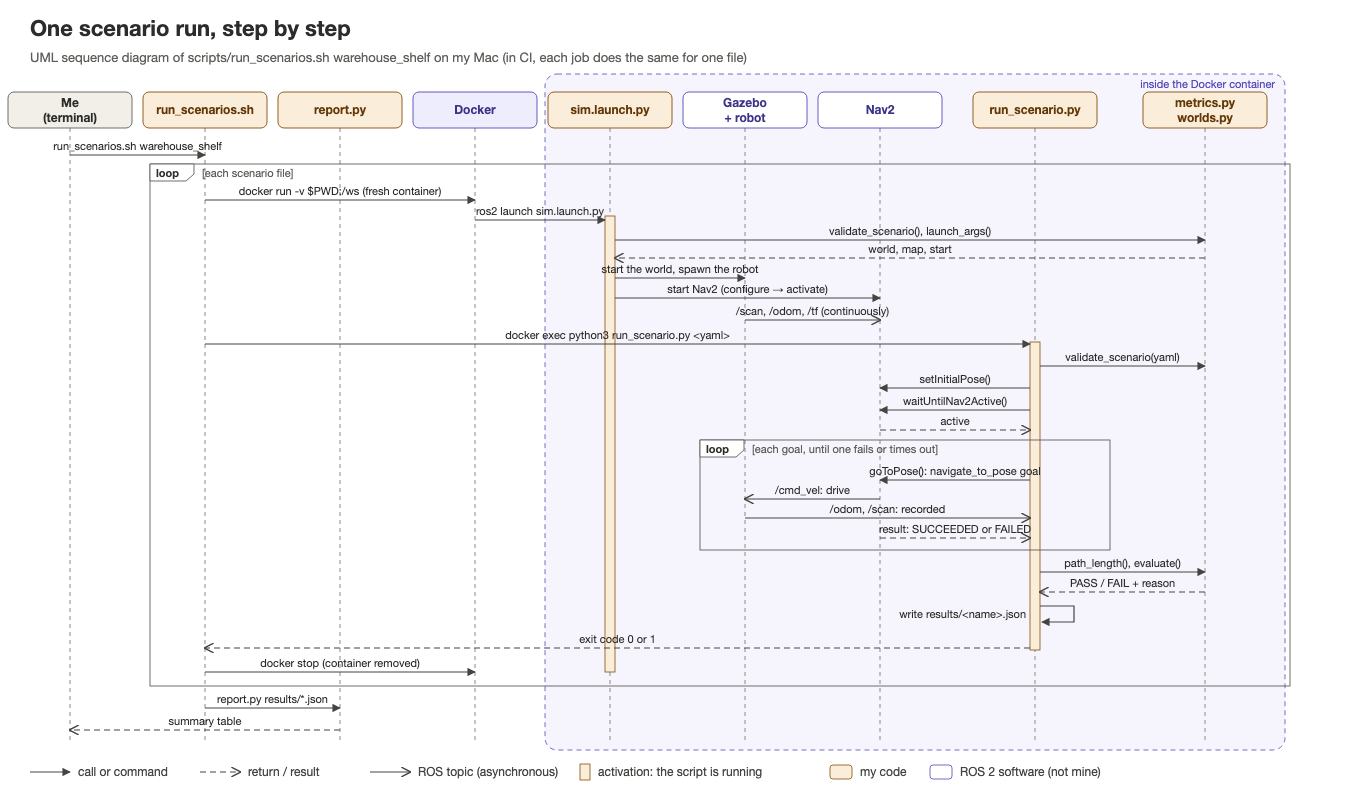
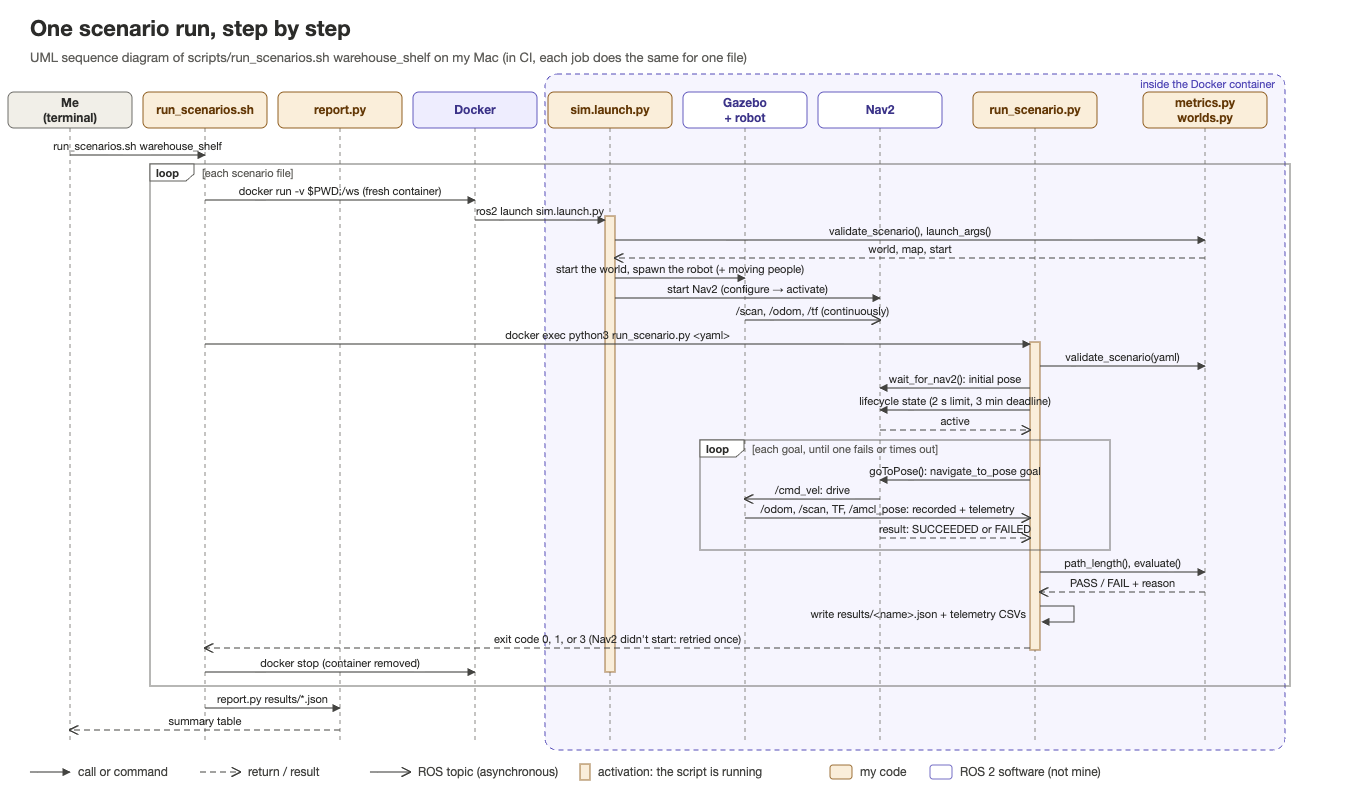
Bring the README intro and diagrams up to date

diff --git a/README.md b/README.md
@@ -7,16 +7,17 @@ I'm building an autonomous warehouse robot with **ROS 2 Jazzy + Nav2**, simulate
 > Work in progress.
 
 ## What I'm building
-- Differential-drive robot navigating a warehouse with Nav2.
-- Mission logic as a behavior tree: go to a shelf, wait, return, recover if blocked.
-- Scenario suite (moving obstacles, narrow aisles, people crossing) run headless in Docker, reporting success rate, time to goal and minimum obstacle distance.
-- CI with GitHub Actions running the scenarios on every change.
+- A differential-drive robot (TurtleBot3 Waffle) navigating with Nav2 in three worlds: Nav2's sandbox, my own [warehouse](#my-warehouse), and [my home](#my-home-scanned-with-my-iphone), mapped with my iPhone's LiDAR and turned into a Nav2 map and a Gazebo world by my own scripts.
+- A scenario suite (narrow aisles, people walking through the warehouse, a tour of my home) run headless in Docker, judged on goals reached, simulated time, distance to obstacles and contact with people.
+- A patrol [mission as a behaviour tree](#a-patrol-mission-as-a-behaviour-tree) (py_trees): visit places, retry, skip what can't be reached, always go home.
+- [Telemetry](#telemetry): a time series of every run (localisation error and uncertainty, speed, clearance, recoveries), the raw material for the fleet data work in the roadmap below.
+- CI on GitHub Actions: unit tests, every scenario and mission in parallel on each pull request, and infrastructure failures kept apart from navigation failures.
 
 ## Roadmap: robot fleet data
 Next, I'm turning the simulation into a small robot fleet and working with its data: finding recurring failures and early warning signs in the telemetry, building dashboards and alerts that can be trusted, detecting config drift, and packaging the evidence for engineering. Each part gets its own pull request:
 
 1. **Simulated fleet**: several robots or runs, each with its own ID, on the existing scenarios, so there is fleet data and not just one robot's.
-2. **Telemetry**: time series per robot and mission in a file (CSV or Parquet): mission state, speed, minimum distance to obstacles, localisation quality (AMCL covariance and error against Gazebo's true pose), replans, recoveries and the time of each leg.
+2. ✅ **Telemetry** ([done](#telemetry)): time series per robot and mission in a file (CSV or Parquet): mission state, speed, minimum distance to obstacles, localisation quality (AMCL covariance and error against Gazebo's true pose), replans, recoveries and the time of each leg.
 3. **Injected faults**: realistic failures on some robots: a sensor that publishes slower or drops out, odometry drift, a changed Nav2 parameter (e.g. the inflation), or a "battery" or "motor" that degrades over time.
 4. **Health checks and `/diagnostics`**: a node that checks each sensor publishes at its expected rate and reports OK, WARN or ERROR on `/diagnostics`, and a pre-run health check that refuses to start a mission if a sensor isn't healthy.
 5. **Rosbag on failure**: a buffer of the last few minutes that is saved only when a mission fails, to investigate what the robot was doing.
